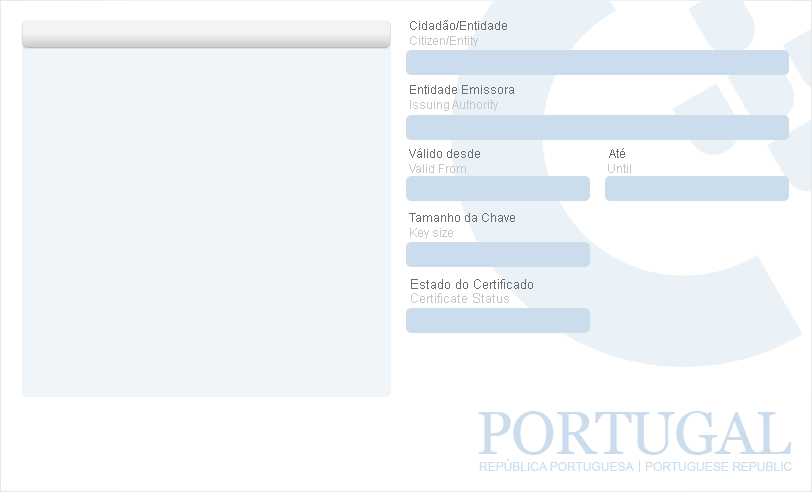
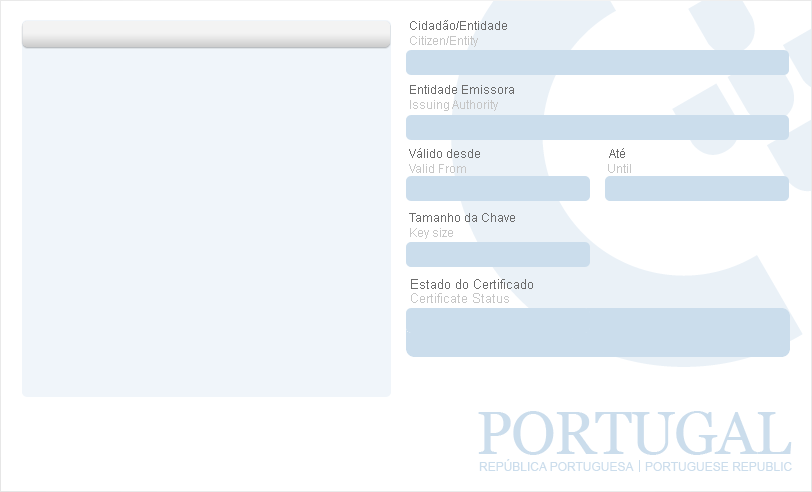
Implement new certificate status: Suspended and handle network errors with a proper message

Changed region(s): [[0.4926, 0.6098, 0.9852, 0.7317]]

diff --git a/pteid-mw-pt/_src/eidmw/eidgui/eidmw_nl.ts b/pteid-mw-pt/_src/eidmw/eidgui/eidmw_nl.ts
@@ -288,19 +288,6 @@
         <comment>to english</comment>
         <translation>Change the interface language to english</translation>
     </message>
-
-    <message>
-        <source>Kaartnr. / &lt;i&gt;Card No&lt;/i&gt;</source>
-        <translation>Num. Cartão / &lt;i&gt;Card No&lt;/i&gt;</translation>
-    </message>
-    <message>
-        <source>Geldig van - tot / &lt;i&gt;Valid from - until&lt;/i&gt;</source>
-        <translation>Validade / &lt;i&gt;Valid from - until&lt;/i&gt;</translation>
-    </message>
-    <message>
-        <source>Ouders / &lt;i&gt;Parents&lt;/i&gt;</source>
-        <translation>Filiação / &lt;i&gt;Parents&lt;/i&gt;</translation>
-    </message>
     <message>
         <source>Foreigners</source>
         <translation>Estrangeiros</translation>
@@ -542,18 +529,6 @@
         <translation>&amp;Identity Card</translation>
     </message>
     <message>
-        <source>SIS Card</source>
-        <translation>SIS Card</translation>
-    </message>
-    <message>
-        <source>Kids Card</source>
-        <translation>Kids Card</translation>
-    </message>
-    <message>
-        <source>Foreigner Card</source>
-        <translation>Foreigner Card</translation>
-    </message>
-    <message>
         <source>Mi&amp;nimize</source>
         <translation type="unfinished">Minimizar</translation>
     </message>
@@ -646,22 +621,6 @@
         <translation type="unfinished">Desconhecido</translation>
     </message>
     <message>
-        <source>txtCountry_1</source>
-        <translation>BELGIË</translation>
-    </message>
-    <message>
-        <source>txtCountry_2</source>
-        <translation>BELGIQUE</translation>
-    </message>
-    <message>
-        <source>txtCountry_3</source>
-        <translation>BELGIEN</translation>
-    </message>
-    <message>
-        <source>txtCountry_4</source>
-        <translation>BELGIUM</translation>
-    </message>
-    <message>
         <source>txtIdentityCard_3</source>
         <translation>PERSONALAUSWEIS</translation>
     </message>
@@ -676,14 +635,6 @@
     <message>
         <source>txtIdentityCard_4</source>
         <translation>IDENTITY CARD</translation>
-    </message>
-    <message>
-        <source>Naam / &lt;i&gt;Name&lt;/i&gt;</source>
-        <translation>Nome / &lt;i&gt;Name&lt;/i&gt;</translation>
-    </message>
-    <message>
-        <source>Geslacht / &lt;i&gt;Sex&lt;/i&gt; </source>
-        <translation>Género / &lt;i&gt;Sex&lt;/i&gt; </translation>
     </message>
     <message>
         <source>The Root Certificate is not correct.
@@ -766,34 +717,6 @@ Please specify .xml, .csv or .eid</source>
         <translation>Save eID as</translation>
     </message>
     <message>
-        <source>Plaats van afgifte&lt;br&gt;&lt;i&gt;Place of issue&lt;/i&gt;</source>
-        <translation>Place of issue</translation>
-    </message>
-    <message>
-        <source>Straat &lt;br&gt;&lt;i&gt;Street&lt;/i&gt;</source>
-        <translation>Rua &lt;br&gt;&lt;i&gt;Street&lt;/i&gt;</translation>
-    </message>
-    <message>
-        <source>Postcode&lt;br&gt;&lt;i&gt;Postal Code&lt;/i&gt;</source>
-        <translation>Cod. Postal&lt;br&gt;&lt;i&gt;Postal Code&lt;/i&gt;</translation>
-    </message>
-    <message>
-        <source>Gemeente &lt;br&gt; &lt;i&gt;Municipality&lt;/i&gt;</source>
-        <translation>Municipio &lt;br&gt; &lt;i&gt;Municipality&lt;/i&gt;</translation>
-    </message>
-    <message>
-        <source>Land&lt;br&gt;&lt;i&gt;Country&lt;/i&gt;</source>
-        <translation>País&lt;br&gt;&lt;i&gt;Country&lt;/i&gt;</translation>
-    </message>
-    <message>
-        <source>Titel&lt;br&gt;&lt;i&gt;Title&lt;/i&gt;</source>
-        <translation>Titel&lt;br&gt;&lt;i&gt;Title&lt;/i&gt;</translation>
-    </message>
-    <message>
-        <source>Nationaliteit&lt;br&gt;&lt;i&gt;Nationality&lt;/i&gt;</source>
-        <translation>Nacionalidade&lt;br&gt;&lt;i&gt;Nationality&lt;/i&gt;</translation>
-    </message>
-    <message>
         <source>Valid until</source>
         <translation>Válido até</translation>
     </message>
@@ -856,38 +779,6 @@ Please specify .xml, .csv or .eid</source>
     <message>
         <source>Identity E&amp;xtra</source>
         <translation>Outros Dados</translation>
-    </message>
-    <message>
-        <source>A. Bewijs van inschrijving in het vreemdelingenregister - Tijdelijk verblijf</source>
-        <translation type="unfinished">A. Bewijs van inschrijving in het vreemdelingenregister - Tijdelijk verblijf</translation>
-    </message>
-    <message>
-        <source>B. Bewijs van inschrijving in het vreemdelingenregister</source>
-        <translation type="unfinished">B. Bewijs van inschrijving in het vreemdelingenregister</translation>
-    </message>
-    <message>
-        <source>C. Identiteitskaart voor vreemdeling</source>
-        <translation type="unfinished">C. Identiteitskaart voor vreemdeling</translation>
-    </message>
-    <message>
-        <source>D. EG - langdurig ingezetene</source>
-        <translation type="unfinished">D. EG - langdurig ingezetene</translation>
-    </message>
-    <message>
-        <source>E. Verklaring van inschrijving</source>
-        <translation type="unfinished">E. Verklaring van inschrijving</translation>
-    </message>
-    <message>
-        <source>E+. Verklaring van inschrijving</source>
-        <translation type="unfinished">E+. Document ter staving van duurzaam verblijf</translation>
-    </message>
-    <message>
-        <source>F. Verblijfskaart van een familielid van een burger van de Unie</source>
-        <translation type="unfinished">F. Verblijfskaart van een familielid van een burger van de Unie</translation>
-    </message>
-    <message>
-        <source>F+. Verblijfskaart van een familielid van een burger van de Unie</source>
-        <translation type="unfinished">F+. Duurzaam verblijfskaart van een familielid van een burger van de Unie</translation>
     </message>
     <message>
         <source>Card not present</source>
@@ -1070,8 +961,12 @@ Please specify .xml, .csv or .eid</source>
         <translation>Revogado</translation>
     </message>
     <message>
-        <source>Opmerkingen&lt;br&gt;&lt;i&gt;Remarks&lt;/i&gt;</source>
-        <translation>Opmerkingen&lt;br&gt;&lt;i&gt;Remarks&lt;/i&gt;</translation>
+        <source>Inactive or Suspended</source>
+        <translation>Inativo ou Suspenso</translation>
+    </message>
+    <message>
+        <source>Could not validate certificate. Please check your Internet connection</source>
+        <translation>Não é possível obter o estado. Por favor verifique a ligação à Internet</translation>
     </message>
     <message>
         <source>Not available</source>
@@ -1343,10 +1238,6 @@ Please specify .xml, .csv or .eid</source>
     <message>
         <source>Show notification</source>
         <translation>Apresentar notificações</translation>
-    </message>
-    <message>
-        <source>Determins whether the toolbar gets shown or not</source>
-        <translation>Bepaalt of de toolbar zichtbaar is of niet</translation>
     </message>
     <message>
         <source>Show toolbar</source>

diff --git a/pteid-mw-pt/_src/eidmw/eidgui/mainwnd.cpp b/pteid-mw-pt/_src/eidmw/eidgui/mainwnd.cpp
@@ -1783,30 +1783,33 @@ void MainWnd::showCertStatusSideinfo(PTEID_CertifStatus certStatus)
 	getCertStatusText(certStatus, treeItemStatus);
 
 	m_ui.txtCert_RevStatus->setText(treeItemStatus);
+	m_ui.txtCert_RevStatus->setWordWrap(true);
 	m_ui.txtCert_RevStatus->setAccessibleName(treeItemStatus);
 }
 
 void MainWnd::getCertStatusText(PTEID_CertifStatus certStatus, QString &strCertStatus)
 {
-	//Currently eidlib only gives us 3 status from the enum:
-	// Valid, Revoked and Unknown for all other problems
+	QString networkError(tr("Could not validate certificate. Please check your Internet connection"));
 	switch(certStatus)
 	{
 	case PTEID_CERTIF_STATUS_REVOKED:
 		strCertStatus = tr("Revoked");
 		break;
-	case PTEID_CERTIF_STATUS_TEST:
-		strCertStatus = tr("Test");
-		break;
-	case PTEID_CERTIF_STATUS_DATE:
-		strCertStatus= tr("Date");
+	case PTEID_CERTIF_STATUS_SUSPENDED:
+		strCertStatus = tr("Inactive or Suspended");
 		break;
 	case PTEID_CERTIF_STATUS_VALID:
 		strCertStatus = tr("Valid");
 		break;
+	//TODO: Handle the network error with a different string such as "cant validate certificate status"
+	case PTEID_CERTIF_STATUS_CONNECT:
+		strCertStatus = networkError;
+		break;
 	case PTEID_CERTIF_STATUS_UNKNOWN:
-	default:
 		strCertStatus = tr("Unknown");
+		break;
+	default:
+		strCertStatus = networkError;
 		break;
 	}
 }
@@ -4675,17 +4678,14 @@ void QTreeCertItem::init(PTEID_Certificate &cert) {
 }
 
 void QTreeCertItem::handleFutureCertStatus() {
-	//emit certStatusReady(certStatusWatcher.result());
 
 	PTEID_CertifStatus status = certStatusWatcher.result();
-	qDebug() << "item::emit cert status";
-	qDebug() << getOwner() << ": " << status;
 
 	emit certStatusReady(status);
 }
 
 void QTreeCertItem::askCertStatus() {
-	qDebug() << "item::askCertStatus()";
+
 	QFuture<PTEID_CertifStatus> future = QtConcurrent::run(this->cert, &PTEID_Certificate::getStatus);
 	certStatusWatcher.setFuture(future);
 }
